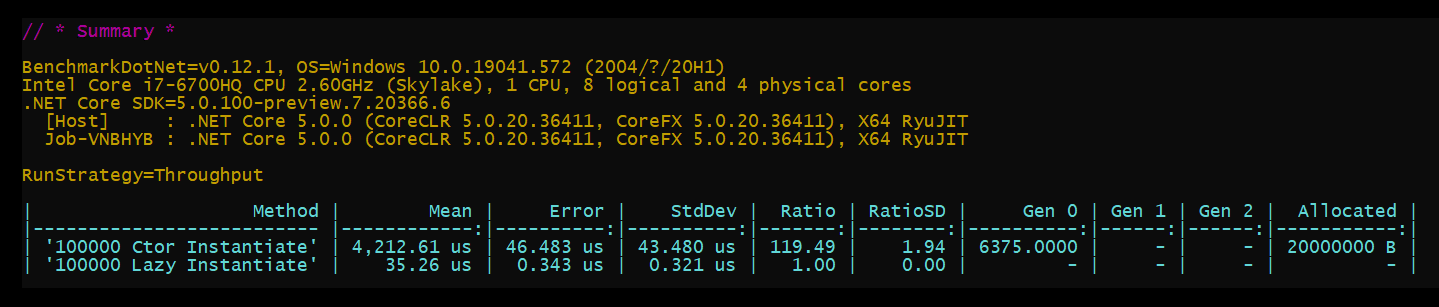
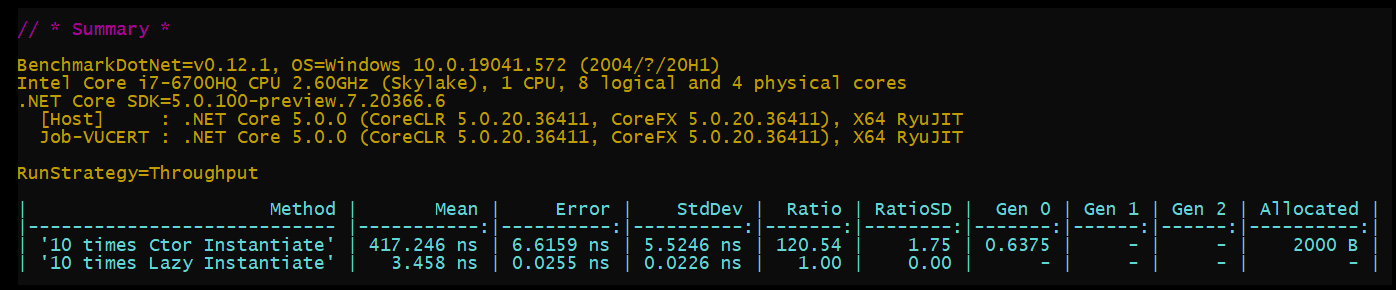
Update Benchmark

diff --git a/New-Lazy-Instantiate/BenchmarkDotNet.Artifacts/New_Lazy_Instantiate.Benchmark-report.html b/New-Lazy-Instantiate/BenchmarkDotNet.Artifacts/New_Lazy_Instantiate.Benchmark-report.html
@@ -2,7 +2,7 @@
 <html lang='en'>
 <head>
 <meta charset='utf-8' />
-<title>New_Lazy_Instantiate.Benchmark-20201026-064805</title>
+<title>New_Lazy_Instantiate.Benchmark-20201027-123228</title>
 
 <style type="text/css">
 	table { border-collapse: collapse; display: block; width: 100%; overflow: auto; }
@@ -17,16 +17,16 @@ BenchmarkDotNet=v0.12.1, OS=Windows 10.0.19041.572 (2004/?/20H1)
 Intel Core i7-6700HQ CPU 2.60GHz (Skylake), 1 CPU, 8 logical and 4 physical cores
 .NET Core SDK=5.0.100-preview.7.20366.6
   [Host]     : .NET Core 5.0.0 (CoreCLR 5.0.20.36411, CoreFX 5.0.20.36411), X64 RyuJIT
-  Job-VNBHYB : .NET Core 5.0.0 (CoreCLR 5.0.20.36411, CoreFX 5.0.20.36411), X64 RyuJIT
+  Job-VUCERT : .NET Core 5.0.0 (CoreCLR 5.0.20.36411, CoreFX 5.0.20.36411), X64 RyuJIT
 </code></pre>
 <pre><code>RunStrategy=Throughput  
 </code></pre>
 
 <table>
-<thead><tr><th>             Method</th><th> Mean</th><th>Error</th><th>StdDev</th><th>Ratio</th><th>RatioSD</th><th>Gen 0</th><th>Gen 1</th><th>Gen 2</th><th>Allocated</th>
+<thead><tr><th>               Method</th><th>Mean</th><th>Error</th><th>StdDev</th><th>Ratio</th><th>RatioSD</th><th>Gen 0</th><th>Gen 1</th><th>Gen 2</th><th>Allocated</th>
 </tr>
-</thead><tbody><tr><td>&#39;100000 Ctor Instantiate&#39;</td><td>4,212.61 &mu;s</td><td>46.483 &mu;s</td><td>43.480 &mu;s</td><td>119.49</td><td>1.94</td><td>6375.0000</td><td>-</td><td>-</td><td>20000000 B</td>
-</tr><tr><td>&#39;100000 Lazy Instantiate&#39;</td><td>35.26 &mu;s</td><td>0.343 &mu;s</td><td>0.321 &mu;s</td><td>1.00</td><td>0.00</td><td>-</td><td>-</td><td>-</td><td>-</td>
+</thead><tbody><tr><td>&#39;10 times Ctor Instantiate&#39;</td><td>417.246 ns</td><td>6.6159 ns</td><td>5.5246 ns</td><td>120.54</td><td>1.75</td><td>0.6375</td><td>-</td><td>-</td><td>2000 B</td>
+</tr><tr><td>&#39;10 times Lazy Instantiate&#39;</td><td>3.458 ns</td><td>0.0255 ns</td><td>0.0226 ns</td><td>1.00</td><td>0.00</td><td>-</td><td>-</td><td>-</td><td>-</td>
 </tr></tbody></table>
 </body>
 </html>

diff --git a/New-Lazy-Instantiate/Benchmark.cs b/New-Lazy-Instantiate/Benchmark.cs
@@ -10,9 +10,9 @@ namespace New_Lazy_Instantiate
     [KeepBenchmarkFiles(false)]
     public class Benchmark
     {
-        private const int count = 100000;
+        private const int count = 10;
 
-        [Benchmark(Description = "100,000 Ctor Instantiate")]
+        [Benchmark(Description = "10 times Ctor Instantiate")]
         public void Ctor_Instantiate()
         {
             for (int i = 0; i < count; i++)
@@ -21,7 +21,7 @@ namespace New_Lazy_Instantiate
             }
         }
 
-        [Benchmark(Baseline = true, Description = "100,000 Lazy Instantiate")]
+        [Benchmark(Baseline = true, Description = "10 times Lazy Instantiate")]
         public void Lazy_Instantiate()
         {
             for (int i = 0; i < count; i++)

diff --git a/New-Lazy-Instantiate/BenchmarkDotNet.Artifacts/New_Lazy_Instantiate.Benchmark-report-github.md b/New-Lazy-Instantiate/BenchmarkDotNet.Artifacts/New_Lazy_Instantiate.Benchmark-report-github.md
@@ -4,12 +4,12 @@ BenchmarkDotNet=v0.12.1, OS=Windows 10.0.19041.572 (2004/?/20H1)
 Intel Core i7-6700HQ CPU 2.60GHz (Skylake), 1 CPU, 8 logical and 4 physical cores
 .NET Core SDK=5.0.100-preview.7.20366.6
   [Host]     : .NET Core 5.0.0 (CoreCLR 5.0.20.36411, CoreFX 5.0.20.36411), X64 RyuJIT
-  Job-VNBHYB : .NET Core 5.0.0 (CoreCLR 5.0.20.36411, CoreFX 5.0.20.36411), X64 RyuJIT
+  Job-VUCERT : .NET Core 5.0.0 (CoreCLR 5.0.20.36411, CoreFX 5.0.20.36411), X64 RyuJIT
 
 RunStrategy=Throughput  
 
 ```
-|                    Method |        Mean |     Error |    StdDev |  Ratio | RatioSD |     Gen 0 | Gen 1 | Gen 2 |  Allocated |
-|-------------------------- |------------:|----------:|----------:|-------:|--------:|----------:|------:|------:|-----------:|
-| &#39;100000 Ctor Instantiate&#39; | 4,212.61 μs | 46.483 μs | 43.480 μs | 119.49 |    1.94 | 6375.0000 |     - |     - | 20000000 B |
-| &#39;100000 Lazy Instantiate&#39; |    35.26 μs |  0.343 μs |  0.321 μs |   1.00 |    0.00 |         - |     - |     - |          - |
+|                      Method |       Mean |     Error |    StdDev |  Ratio | RatioSD |  Gen 0 | Gen 1 | Gen 2 | Allocated |
+|---------------------------- |-----------:|----------:|----------:|-------:|--------:|-------:|------:|------:|----------:|
+| &#39;10 times Ctor Instantiate&#39; | 417.246 ns | 6.6159 ns | 5.5246 ns | 120.54 |    1.75 | 0.6375 |     - |     - |    2000 B |
+| &#39;10 times Lazy Instantiate&#39; |   3.458 ns | 0.0255 ns | 0.0226 ns |   1.00 |    0.00 |      - |     - |     - |         - |

diff --git a/New-Lazy-Instantiate/README.md b/New-Lazy-Instantiate/README.md
@@ -1,6 +1,6 @@
 # Ctor Instantiate vs Lazy Instantiate
 
-For 100,000 iteration the results were **Considerable**.
+IMO this is a micro-optimization but a **Considerable** one.
 
 Lazy instantiation was about **120x faster** with **zero allocation**.
 
